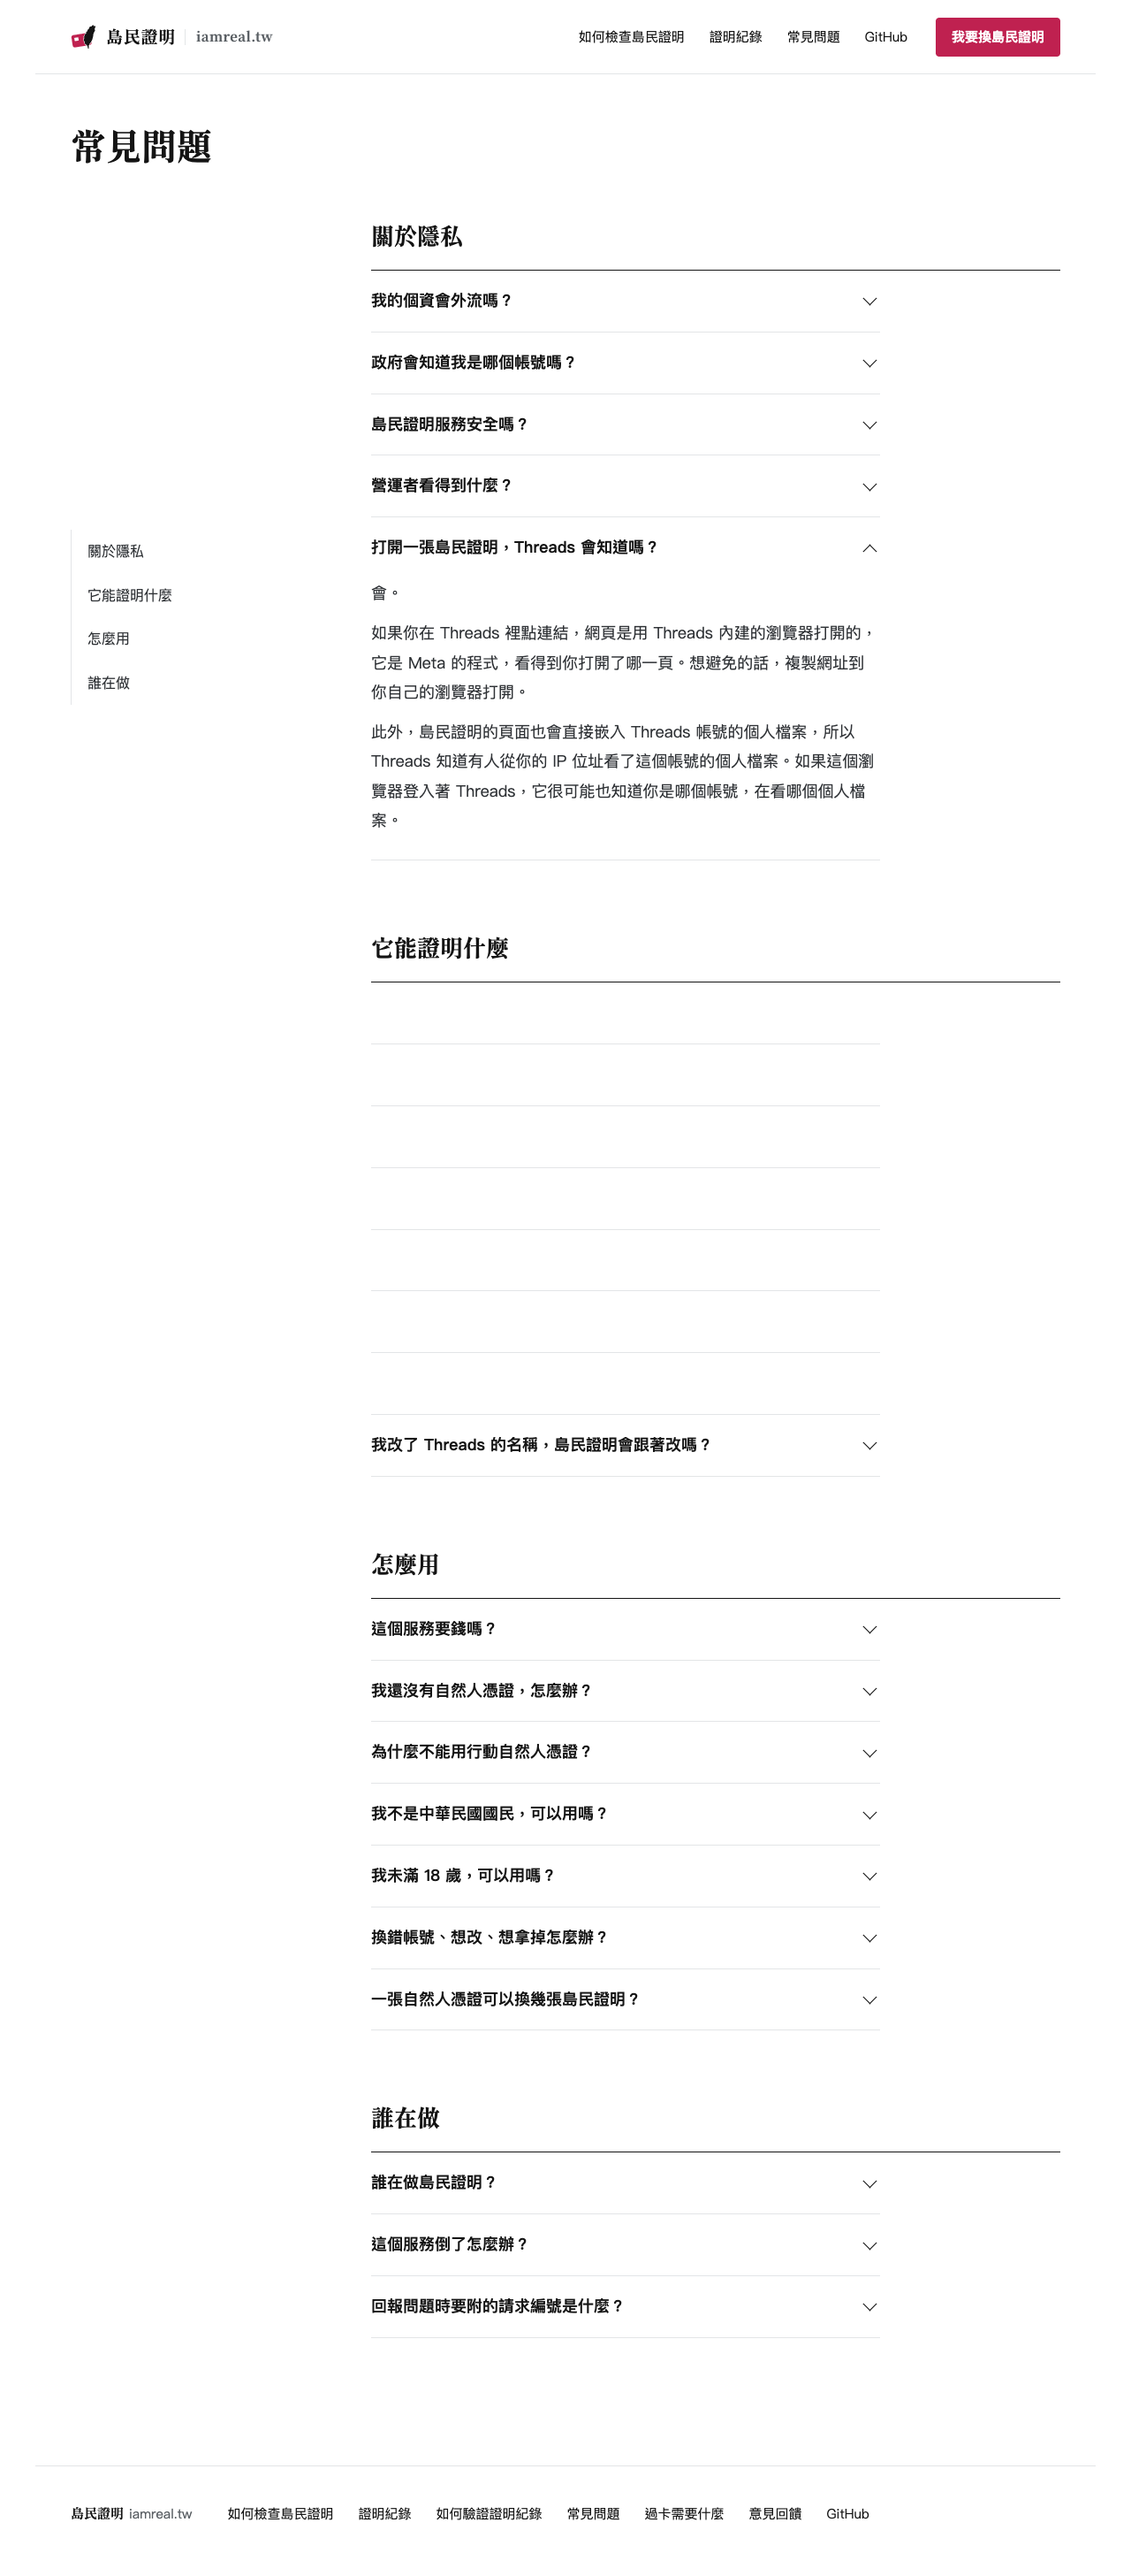
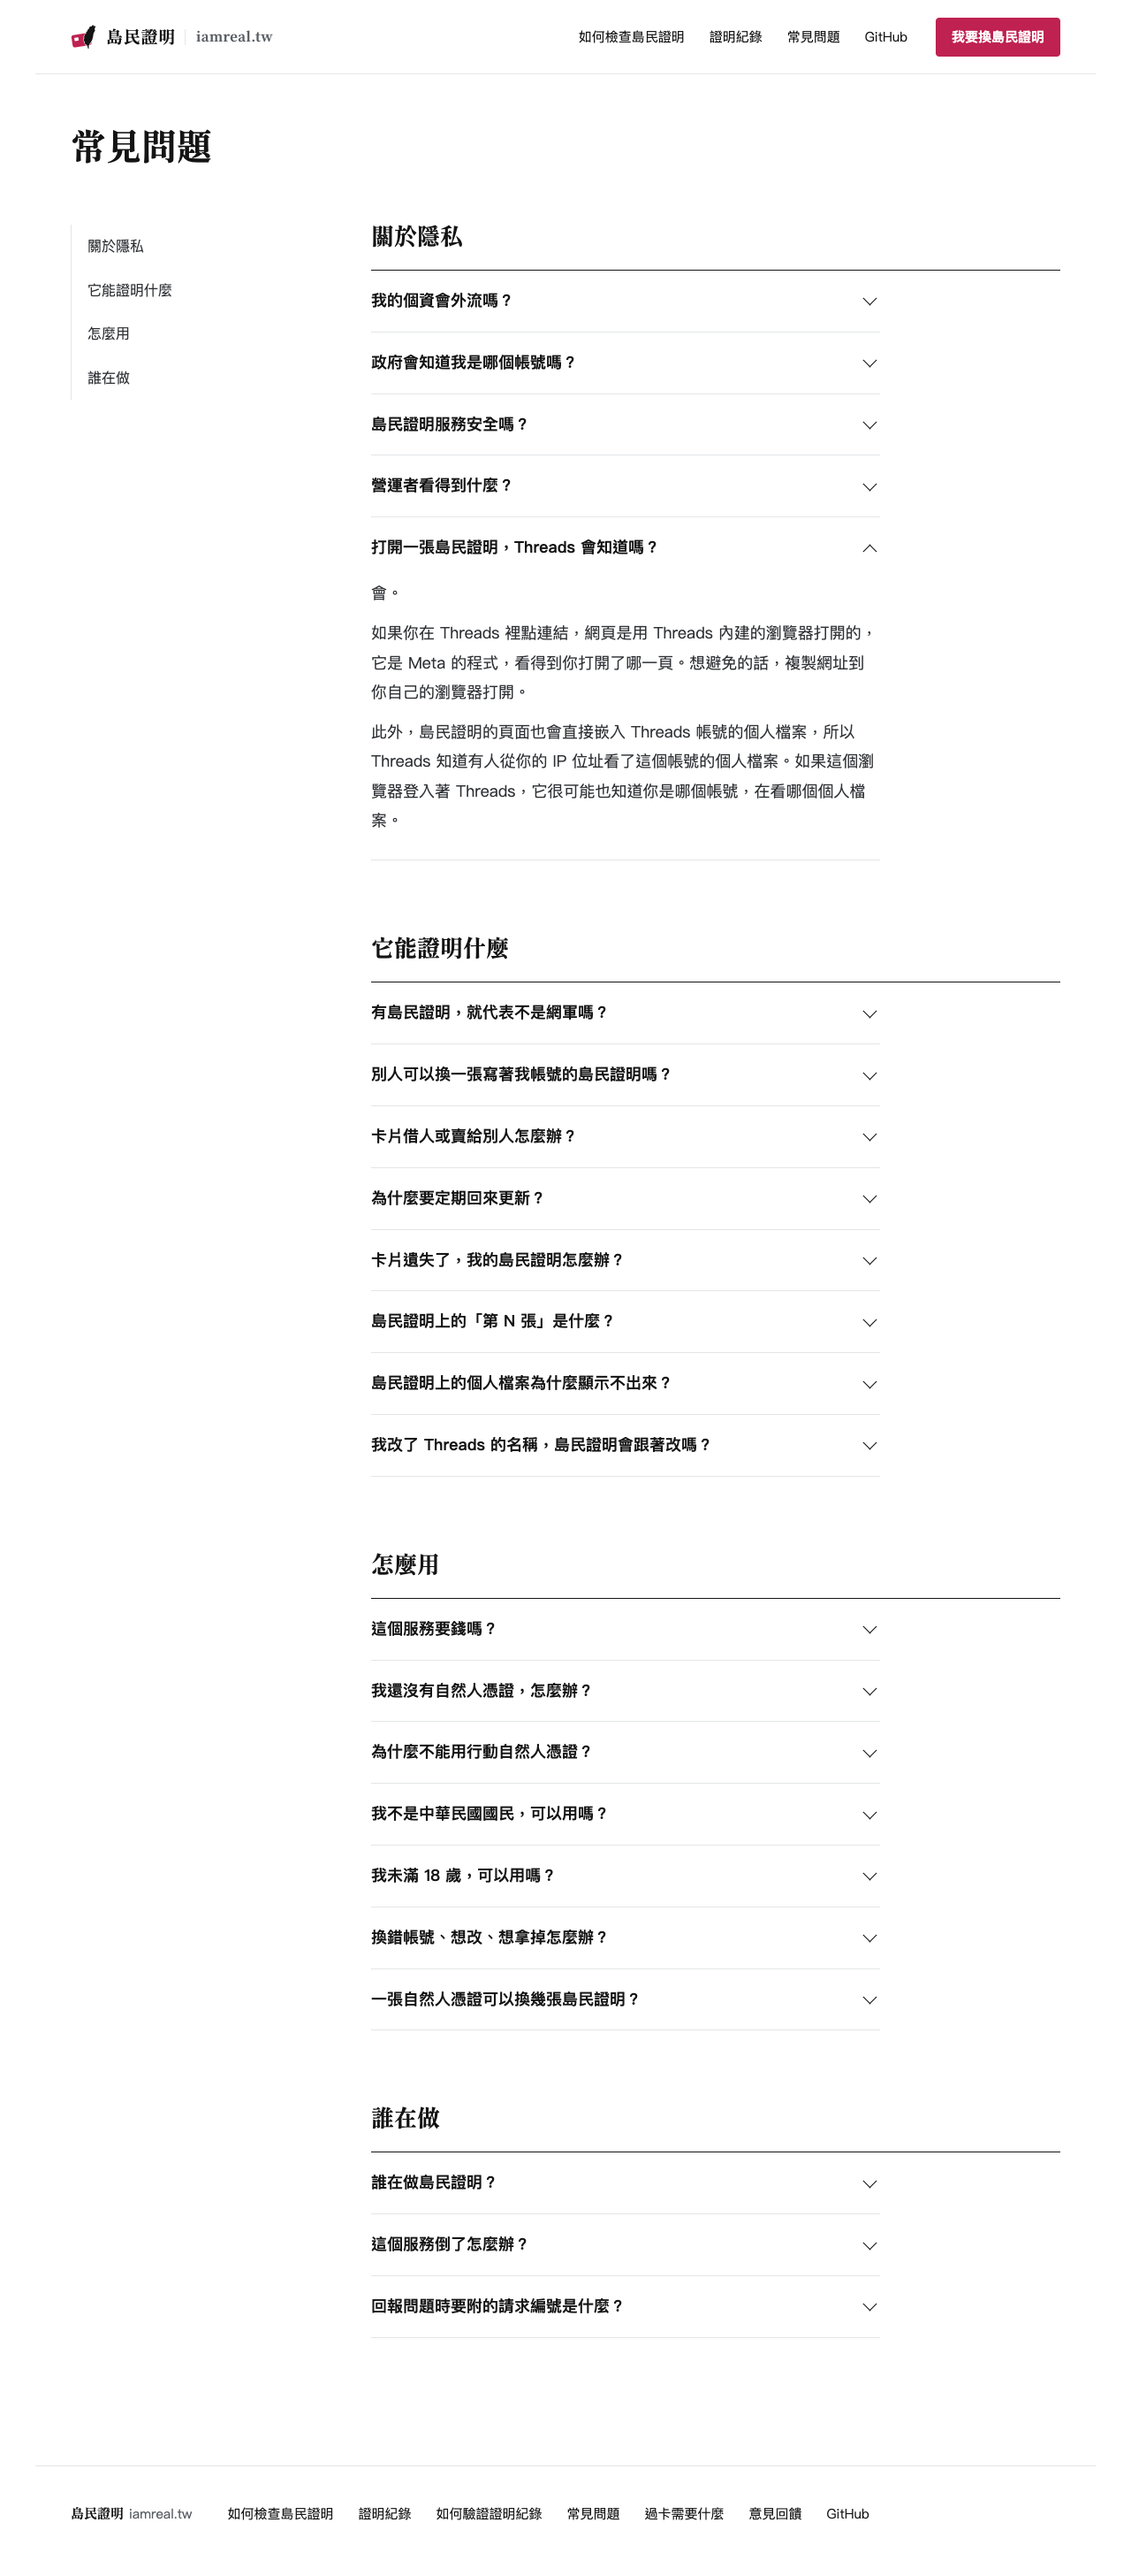
審查的修正：連到某一題的截圖從頁首拍、copy.js 寫明為什麼讀 document.URL、faq.md 寫沒有程式時的樣子（#343）

Changed region(s): [[0.3438, 0.3749, 0.5938, 0.5623], [0.0625, 0.0937, 0.125, 0.1562], [0.0625, 0.1874, 0.125, 0.2499]]

diff --git a/web/test/worker-card-proof.ts b/web/test/worker-card-proof.ts
@@ -241,13 +241,15 @@ try {
   /** Whether the top of the element with this id is on the screen. */
   const onScreen = (p: Page, id: string): Promise<boolean> =>
     p.eval<boolean>(`(() => { const r = document.getElementById(${JSON.stringify(id)}).getBoundingClientRect(); return r.top >= 0 && r.top < innerHeight; })()`);
-  await visitor.send("Emulation.setDeviceMetricsOverride", { width: 1100, height: 900, deviceScaleFactor: 1, mobile: false });
+  /** Back to a desktop's width, after a screenshot at a phone's. */
+  const desktop = (p: Page): Promise<unknown> => p.send("Emulation.setDeviceMetricsOverride", { width: 1100, height: 900, deviceScaleFactor: 1, mobile: false });
+  await desktop(visitor);
   await visitor.goto(`${ORIGIN}/faq`);
   const questions = await visitor.eval<number>(`document.querySelectorAll("details.question").length`);
   check(questions > 20 && (await openIds(visitor)).length === 0, `/faq: all ${questions} questions folded`);
   await shot(visitor, "faq-desktop.png", 1100);
   await shot(visitor, "faq-phone.png", 390);
-  await visitor.send("Emulation.setDeviceMetricsOverride", { width: 1100, height: 900, deviceScaleFactor: 1, mobile: false });
+  await desktop(visitor);
   // A click on a question opens it, another closes it; from the keyboard too.
   await visitor.click("#personal-data > summary");
   check((await openIds(visitor)).join() === "personal-data", "/faq: a click on a question opens it");
@@ -269,6 +271,8 @@ try {
   await visitor.goto(`${ORIGIN}/`);
   await visitor.goto(`${ORIGIN}/faq#threads-knows`);
   check((await openIds(visitor)).join() === "threads-knows" && (await onScreen(visitor, "threads-knows")), "/faq#threads-knows: that question open, on the screen, no other");
+  // The whole page from its top, the question left open: a screenshot taken scrolled down leaves rows of it blank.
+  await visitor.eval("scrollTo(0, 0)");
   await shot(visitor, "faq-question-desktop.png", 1100);
   await shot(visitor, "faq-question-phone.png", 390);
   // (From another page: Page.navigate from /faq#… to /faq#… is a navigation in the page, with no load event to wait for.)
@@ -281,7 +285,7 @@ try {
   await noScript.send("Runtime.enable");
   await noScript.send("Network.enable");
   await noScript.send("Network.setBlockedURLs", { urls: ["*/copy.js"] });
-  await noScript.send("Emulation.setDeviceMetricsOverride", { width: 1100, height: 900, deviceScaleFactor: 1, mobile: false });
+  await desktop(noScript);
   await noScript.goto(`${ORIGIN}/faq#threads-knows`);
   check((await openIds(noScript)).length === 0 && (await onScreen(noScript, "threads-knows")), "/faq#threads-knows without the script: the question on the screen, folded (the script is what opens it)");
   await noScript.click("#threads-knows > summary");

diff --git a/worker/site/copy.js b/worker/site/copy.js
@@ -32,8 +32,10 @@ for (const button of document.querySelectorAll("button[data-copy], button[data-c
 // part after # changes. A browser scrolls to that <details> but does not
 // open it, as it is the target itself and not inside one. Anything else
 // the address names (a category, #cat-...) is left as it is. The part
-// after # is read from document.URL: when this runs, as the page opens,
-// :target does not match yet.
+// after # is read from document.URL, which can only be read: :target does
+// not match yet when this runs as the page opens, and the test of this
+// file keeps out the word for the object that can also send the page to
+// another address.
 const openNamedQuestion = () => {
   const address = document.URL;
   const hash = address.indexOf("#");

diff --git a/design/copy/faq.md b/design/copy/faq.md
@@ -11,7 +11,7 @@
 - 常見問題要直接回答問題，不用「了解更多」「完整的說明」把人帶去站內的其他頁面或其他題。連結只留兩種：外部的資源（例如 GitHub、維護者的部落格），和連到某個功能的連結
 - 每一題有固定的 `id`（英文），寫在那一題最下面；別的頁面的「了解更多」連到 `/faq#` 加上那個 `id`
 - 每一題可以展開，一開始收起來，和首頁的常見問題（`home.md`「常見問題」）一樣：只看得到題目，點題目展開答案，再點一次收起。展開不需要程式，用鍵盤也按得到
-- 連到某一題時，那一題展開，畫面捲到那一題：從別的頁面點進來、直接打開那個網址都一樣。連到分類（`#` 加上那一類的 `id`）只捲到那一類，不展開任何一題
+- 連到某一題時，那一題展開，畫面捲到那一題：從別的頁面點進來、直接打開那個網址都一樣。連到分類（`#` 加上那一類的 `id`）只捲到那一類，不展開任何一題。瀏覽器不執行程式時，連到某一題只捲到那一題，點題目才展開
 - 最後一題下面不另外放東西，直接接頁尾（`home.md`「頁尾」）
 
 ```
